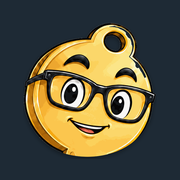
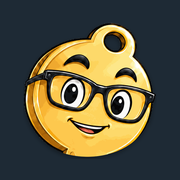
Týpek: oprava škvrny vpravo hore na tmavom pozadí (ikony aj predajný web)
Biely odlesok na hlavičke kľúča bol v pôvodnom obrázku priehľadný, takže na tmavom
pozadí presvital ako špinavý tieň. Odlesk je vyplnený bielou, odstránený aj svetlý
bodkovaný lem okolo obrysu a krúžku. Nové verzie súborov (?v=) obídu staré uložené kópie.

Claude-Session: https://claude.ai/code/session_01MJ5tMCrix1cnsHfavNYhMH

Changed region(s): [[0.6111, 0.1389, 0.8333, 0.4444]]

diff --git a/docs/web/index.html b/docs/web/index.html
@@ -7,7 +7,7 @@
 <meta name="theme-color" content="#1e2a35">
 <title>Realitný týpek – softvér od makléra pre maklérov</title>
 <meta name="description" content="Realitný týpek: skener inzercie, kataster, kalendár, ponuky a osobný web v jednom okne. Softvér od makléra pre maklérov. 30 dní zadarmo.">
-<link rel="icon" type="image/png" href="typek-head.png">
+<link rel="icon" type="image/png" href="typek-head.png?v=202610251300">
 <meta property="og:type" content="website">
 <meta property="og:site_name" content="Realitný týpek">
 <meta property="og:locale" content="sk_SK">
@@ -407,7 +407,7 @@ a{color:#4A6074}a:hover{color:#1E2A35}
 <header id="top" class="hdr">
 <nav aria-label="Hlavné menu" style="max-width: 1200px; margin: 0 auto; padding: 22px 24px; display: flex; flex-wrap: wrap; align-items: center; justify-content: space-between; gap: 16px">
 <a href="#top" style="display: flex; align-items: center; gap: 12px; text-decoration: none; color: #1E2A35">
-<img src="typek-head.png" alt="" width="50" height="50" style="display: block; flex: none; width: 50px; height: 50px">
+<img src="typek-head.png?v=202610251300" alt="" width="50" height="50" style="display: block; flex: none; width: 50px; height: 50px">
 <span class="wm" style="font-size: 24px"><span class="wm-a">Realitný</span> <span class="wm-b">týpek</span></span>
 </a>
 <div class="nav-d" style="display: flex; flex-wrap: wrap; align-items: center; gap: 22px">
@@ -463,7 +463,7 @@ softvér od makléra pre maklérov
 <svg viewBox="0 0 400 120" width="100%" aria-hidden="true" style="position: absolute; left: 0; right: 0; bottom: 0; opacity: 0.35"><path d="M0 120 V80 L40 50 L80 80 V60 L120 30 L160 60 V90 L200 62 L240 90 V50 L290 14 L340 50 V84 L370 60 L400 84 V120 Z" fill="#1E2A35"></path></svg>
 </div>
 <div class="mwrap" style="position: absolute; left: 4%; right: 20%; bottom: 3%">
-<img class="mfloat" src="typek.png" alt="Maskot Realitný týpek – zlatý kľúč s okuliarmi, ktorý drží domček a ukazuje rukou" style="display: block; width: 100%; height: auto; filter: drop-shadow(0 24px 30px rgba(0,0,0,.35))">
+<img class="mfloat" src="typek.png?v=202610251300" alt="Maskot Realitný týpek – zlatý kľúč s okuliarmi, ktorý drží domček a ukazuje rukou" style="display: block; width: 100%; height: auto; filter: drop-shadow(0 24px 30px rgba(0,0,0,.35))">
 </div>
 
 <div class="bob4 hide-sm" style="position: absolute; top: 2%; right: -4%; max-width: 190px; padding: 14px 18px; border-radius: 20px 20px 20px 6px; background: #FFFDF8; box-shadow: 0 18px 40px -22px rgba(30,42,53,.55); font-size: 15px; line-height: 1.4; font-weight: 600">Čau, ja som Týpek. Všetko máš u mňa – na jednom mieste.</div>
@@ -639,7 +639,7 @@ List vlastníctva na 1 klik
 
 <!-- PÁS TEXTU – ide do strán podľa skrolovania -->
 <div class="pas" aria-hidden="true">
-<div class="pas-r pas-r1"><div class="pas-t"><span>Realitný skener</span><img src="typek-head.png" alt="" width="80" height="80"><span>Kataster a mapa</span><img src="typek-head.png" alt="" width="80" height="80"><span>Kalendár</span><img src="typek-head.png" alt="" width="80" height="80"><span>Správa ponúk</span><img src="typek-head.png" alt="" width="80" height="80"><span>Osobný web</span><img src="typek-head.png" alt="" width="80" height="80"><span>Emailing</span><img src="typek-head.png" alt="" width="80" height="80"><span>Chat s kolegami</span><img src="typek-head.png" alt="" width="80" height="80"><span>Dokumenty na tlač</span><img src="typek-head.png" alt="" width="80" height="80"></div><div class="pas-t"><span>Realitný skener</span><img src="typek-head.png" alt="" width="80" height="80"><span>Kataster a mapa</span><img src="typek-head.png" alt="" width="80" height="80"><span>Kalendár</span><img src="typek-head.png" alt="" width="80" height="80"><span>Správa ponúk</span><img src="typek-head.png" alt="" width="80" height="80"><span>Osobný web</span><img src="typek-head.png" alt="" width="80" height="80"><span>Emailing</span><img src="typek-head.png" alt="" width="80" height="80"><span>Chat s kolegami</span><img src="typek-head.png" alt="" width="80" height="80"><span>Dokumenty na tlač</span><img src="typek-head.png" alt="" width="80" height="80"></div></div>
+<div class="pas-r pas-r1"><div class="pas-t"><span>Realitný skener</span><img src="typek-head.png?v=202610251300" alt="" width="80" height="80"><span>Kataster a mapa</span><img src="typek-head.png?v=202610251300" alt="" width="80" height="80"><span>Kalendár</span><img src="typek-head.png?v=202610251300" alt="" width="80" height="80"><span>Správa ponúk</span><img src="typek-head.png?v=202610251300" alt="" width="80" height="80"><span>Osobný web</span><img src="typek-head.png?v=202610251300" alt="" width="80" height="80"><span>Emailing</span><img src="typek-head.png?v=202610251300" alt="" width="80" height="80"><span>Chat s kolegami</span><img src="typek-head.png?v=202610251300" alt="" width="80" height="80"><span>Dokumenty na tlač</span><img src="typek-head.png?v=202610251300" alt="" width="80" height="80"></div><div class="pas-t"><span>Realitný skener</span><img src="typek-head.png?v=202610251300" alt="" width="80" height="80"><span>Kataster a mapa</span><img src="typek-head.png?v=202610251300" alt="" width="80" height="80"><span>Kalendár</span><img src="typek-head.png?v=202610251300" alt="" width="80" height="80"><span>Správa ponúk</span><img src="typek-head.png?v=202610251300" alt="" width="80" height="80"><span>Osobný web</span><img src="typek-head.png?v=202610251300" alt="" width="80" height="80"><span>Emailing</span><img src="typek-head.png?v=202610251300" alt="" width="80" height="80"><span>Chat s kolegami</span><img src="typek-head.png?v=202610251300" alt="" width="80" height="80"><span>Dokumenty na tlač</span><img src="typek-head.png?v=202610251300" alt="" width="80" height="80"></div></div>
 <div class="pas-r pas-r2"><div class="pas-t"><span>Dokumenty na tlač</span><i></i><span>Chat s kolegami</span><i></i><span>Emailing</span><i></i><span>Osobný web</span><i></i><span>Správa ponúk</span><i></i><span>Kalendár</span><i></i><span>Kataster a mapa</span><i></i><span>Realitný skener</span><i></i></div><div class="pas-t"><span>Dokumenty na tlač</span><i></i><span>Chat s kolegami</span><i></i><span>Emailing</span><i></i><span>Osobný web</span><i></i><span>Správa ponúk</span><i></i><span>Kalendár</span><i></i><span>Kataster a mapa</span><i></i><span>Realitný skener</span><i></i></div></div>
 </div>
 
@@ -784,7 +784,7 @@ List vlastníctva na 1 klik
 <div style="flex: 1 1 440px; min-width: 0; position: relative">
 <div style="border-radius: 22px; background: #FFFDF8; overflow: hidden; box-shadow: 0 50px 80px -40px rgba(30,42,53,.55)">
 <div style="display: flex; align-items: center; gap: 10px; padding: 12px 16px; background: #1E2A35; color: #F7F2E8">
-<img src="typek-head.png" alt="" width="34" height="34" style="display: block; width: 34px; height: 34px">
+<img src="typek-head.png?v=202610251300" alt="" width="34" height="34" style="display: block; width: 34px; height: 34px">
 <span class="wm" style="flex: 1; min-width: 0; font-size: 16px"><span style="color: #F7F2E8">Realitný</span> <span style="color: #DB9522">týpek</span></span>
 <span style="display: inline-flex; align-items: center; gap: 6px; padding: 5px 10px; border-radius: 999px; background: #DB9522; color: #1E2A35; font-size: 12px; font-weight: 800"><svg width="14" height="14" viewBox="0 0 24 24" fill="none" stroke="currentColor" stroke-width="2.2" stroke-linecap="round" stroke-linejoin="round" aria-hidden="true"><circle cx="7.5" cy="12" r="4"></circle><path d="M11.5 12H21M18 12v3.5M21 12v2.5"></path></svg>1 prihlásenie</span>
 </div>
@@ -819,7 +819,7 @@ List vlastníctva na 1 klik
 <div aria-hidden="true" style="position: absolute; top: 26px; left: 50%; width: 82%; max-width: 380px; height: 88%; transform: translateX(-46%) rotate(4deg); border-radius: 22px; background: #EADBB8"></div>
 <div style="position: relative; width: 100%; max-width: 400px; border-radius: 22px; background: #FFFDF8; overflow: hidden; box-shadow: 0 50px 80px -40px rgba(30,42,53,.55)">
 <div style="padding: 18px 20px; background: #1E2A35; color: #F7F2E8; display: flex; align-items: center; gap: 12px">
-<img src="typek-head.png" alt="" width="44" height="44" style="display: block; width: 44px; height: 44px">
+<img src="typek-head.png?v=202610251300" alt="" width="44" height="44" style="display: block; width: 44px; height: 44px">
 <span style="flex: 1; min-width: 0"><span class="disp" style="display: block; font-size: 18px; font-weight: 800">Realitné novinky</span><span style="font-size: 12px; color: #C9D4DD">od [Tvoje meno] · október</span></span>
 </div>
 <div style="padding: 16px 20px; display: flex; flex-direction: column; gap: 12px">
@@ -1081,7 +1081,7 @@ List vlastníctva na 1 klik
 <div style="position: relative; width: 100%; max-width: 380px">
 <div class="pop" style="border-radius: 24px; background: #FFFDF8; color: #1E2A35; overflow: hidden; box-shadow: 0 50px 80px -40px rgba(0,0,0,.8)">
 <div style="display: flex; align-items: center; gap: 10px; padding: 14px 16px">
-<img src="typek-head.png" alt="" width="40" height="40" style="display: block; width: 40px; height: 40px; border-radius: 99px; background: #EEE6D6">
+<img src="typek-head.png?v=202610251300" alt="" width="40" height="40" style="display: block; width: 40px; height: 40px; border-radius: 99px; background: #EEE6D6">
 <span style="flex: 1; min-width: 0"><strong style="display: block; font-size: 14px">[Tvoje meno] · maklér</strong><span style="font-size: 12px; color: #4A6074">práve teraz</span></span>
 <svg width="20" height="20" viewBox="0 0 24 24" fill="#4A6074" aria-hidden="true"><circle cx="5" cy="12" r="1.8"></circle><circle cx="12" cy="12" r="1.8"></circle><circle cx="19" cy="12" r="1.8"></circle></svg>
 </div>
@@ -1180,7 +1180,7 @@ List vlastníctva na 1 klik
 </svg>
 <div class="hub-core">
 <span class="hub-ring" aria-hidden="true"></span>
-<img src="typek-head.png" alt="" width="96" height="96" style="display: block; width: 96px; height: 96px; position: relative">
+<img src="typek-head.png?v=202610251300" alt="" width="96" height="96" style="display: block; width: 96px; height: 96px; position: relative">
 <span class="wm" style="position: relative; font-size: 17px"><span style="color: #F7F2E8">Realitný</span> <span style="color: #DB9522">týpek</span></span>
 </div>
 <div class="hub-node hn0 hub-node--gold"><span class="ic"><svg width="18" height="18" viewBox="0 0 24 24" fill="none" stroke="currentColor" stroke-width="2" stroke-linecap="round" stroke-linejoin="round" aria-hidden="true"><circle cx="12" cy="12" r="9"></circle><circle cx="12" cy="12" r="4"></circle><path d="M12 12 L18 6"></path></svg></span>Realitný skener</div>
@@ -1240,7 +1240,7 @@ List vlastníctva na 1 klik
 
 <aside id="suhrn" class="sum" style="scroll-margin-top: 16px">
 <div style="display: flex; align-items: center; gap: 12px">
-<img src="typek-head.png" alt="" width="56" height="56" style="display: block; width: 56px; height: 56px">
+<img src="typek-head.png?v=202610251300" alt="" width="56" height="56" style="display: block; width: 56px; height: 56px">
 <span><span class="wm" style="display: block; font-size: 20px"><span style="color: #F7F2E8">Tvoj</span> <span style="color: #DB9522">Týpek</span></span><span style="font-size: 14px; color: #C9D4DD">Vybraté moduly: <strong style="color: #F7F2E8" data-mod-count="1">1</strong> z 11</span></span>
 </div>
 <div style="display: flex; flex-wrap: wrap; gap: 8px; min-height: 40px">
@@ -1317,7 +1317,7 @@ List vlastníctva na 1 klik
 <div style="flex: 1 1 320px; min-width: 0; display: flex; justify-content: center">
 <div class="team" style="position: relative; width: 100%; max-width: 360px; aspect-ratio: 1 / 1">
 <div style="position: absolute; inset: 12%; border-radius: 999px; background: #2F4152"></div>
-<img class="mfloat" src="typek.png" alt="Maskot Týpek s tímom maklérov" style="position: absolute; left: 22%; right: 22%; bottom: 10%; width: 56%; height: auto">
+<img class="mfloat" src="typek.png?v=202610251300" alt="Maskot Týpek s tímom maklérov" style="position: absolute; left: 22%; right: 22%; bottom: 10%; width: 56%; height: auto">
 <span class="team-av bob1" style="top: 6%; left: 4%; background: #4A6074; color: #F7F2E8">MA</span>
 <span class="team-av bob2" style="top: 2%; right: 8%; background: #DB9522; color: #1E2A35">JK</span>
 <span class="team-av bob3" style="top: 46%; left: -2%; background: #F7F2E8; color: #1E2A35">PS</span>
@@ -1373,7 +1373,7 @@ List vlastníctva na 1 klik
 <p id="rt-note" style="margin: 14px 0 0; font-size: 14px; line-height: 1.55; color: #4A6074">Žiadny spam. 30 dní zadarmo, potom sa rozhodneš. S nami sa dohodneš na všetkom. Tvoj e-mail použijeme len na to, aby sme sa ti ozvali – viac v <a href="ochrana-udajov.html">Ochrane osobných údajov</a>.</p>
 </div>
 <div style="flex: 0 1 300px; min-width: 220px; margin: 0 auto">
-<img class="mfloat" src="typek.png" alt="Maskot Realitný týpek" style="display: block; width: 100%; height: auto; filter: drop-shadow(0 18px 22px rgba(30,42,53,.25))">
+<img class="mfloat" src="typek.png?v=202610251300" alt="Maskot Realitný týpek" style="display: block; width: 100%; height: auto; filter: drop-shadow(0 18px 22px rgba(30,42,53,.25))">
 </div>
 </div>
 </section>
@@ -1395,7 +1395,7 @@ List vlastníctva na 1 klik
 <!-- FOOTER -->
 <footer style="max-width: 1200px; margin: 0 auto; padding: 10px 24px 48px; display: flex; flex-wrap: wrap; align-items: center; justify-content: space-between; gap: 18px; font-size: 14px; color: #4A6074">
 <div style="display: flex; align-items: center; gap: 12px">
-<img src="typek-head.png" alt="" width="40" height="40" style="display: block; flex: none; width: 40px; height: 40px">
+<img src="typek-head.png?v=202610251300" alt="" width="40" height="40" style="display: block; flex: none; width: 40px; height: 40px">
 <span><span class="wm" style="font-size: 15px"><span class="wm-a">Realitný</span> <span class="wm-b">týpek</span></span> – softvér od realitnej kancelárie <a href="https://www.alphareality.sk/">Alpha Reality</a></span>
 </div>
 <div style="display: flex; flex-wrap: wrap; gap: 20px">
@@ -1413,7 +1413,7 @@ List vlastníctva na 1 klik
 <div data-ck="banner" style="display: contents" hidden>
 <div class="ck" role="dialog" aria-labelledby="ck-t" aria-describedby="ck-d">
 <div style="display: flex; align-items: flex-start; gap: 14px">
-<img src="typek-head.png" alt="" width="44" height="44" style="display: block; flex: none; width: 44px; height: 44px">
+<img src="typek-head.png?v=202610251300" alt="" width="44" height="44" style="display: block; flex: none; width: 44px; height: 44px">
 <div style="min-width: 0">
 <h2 id="ck-t" style="margin: 0; font-size: 20px; line-height: 1.2; letter-spacing: -0.02em; font-weight: 800">Pár slov o cookies</h2>
 <p id="ck-d" style="margin: 6px 0 0; font-size: 14.5px; line-height: 1.55; color: #3A4B5A">Nevyhnutné súbory cookies potrebujeme, aby web fungoval. Analytické a marketingové použijeme len vtedy, keď s nimi súhlasíš. Výber môžeš kedykoľvek zmeniť v pätičke stránky. Viac v <a href="ochrana-udajov.html">Ochrane osobných údajov</a>.</p>

diff --git a/docs/app.js b/docs/app.js
@@ -535,7 +535,7 @@
         var j = s.toJSON();
         await rpc("ulozit_push_odber", { p_endpoint: j.endpoint, p_p256dh: j.keys.p256dh, p_auth: j.keys.auth,
           p_zariadenie: (jeIos() ? "iPhone" : /android/i.test(navigator.userAgent) ? "Android" : "Počítač") + (naPloche() ? " (aplikácia)" : "") });
-        rg.showNotification("🔔 Upozornenia sú zapnuté", { body: "Takto vám príde správa o novom súkromnom inzeráte.", icon: "typek-ikona-192.png", badge: "typek-odznak-96.png", tag: "push-test" });
+        rg.showNotification("🔔 Upozornenia sú zapnuté", { body: "Takto vám príde správa o novom súkromnom inzeráte.", icon: "typek-ikona-192.png?v=202610251300", badge: "typek-odznak-96.png?v=202610251300", tag: "push-test" });
         toast("🔔 Upozornenia sú zapnuté.");
       } catch (err) { toast(chybaText(err), true); }
       napojUpozornenia();
@@ -6833,7 +6833,7 @@
   function systemoveUpozornenie(titul, text, tag, adresa) {
     if (!document.hidden || !("Notification" in window) || Notification.permission !== "granted" || !navigator.serviceWorker) return;
     navigator.serviceWorker.ready.then(function (reg) {
-      reg.showNotification(titul, { body: String(text || "").slice(0, 180), icon: "typek-ikona-192.png", badge: "typek-odznak-96.png", tag: tag, renotify: true,
+      reg.showNotification(titul, { body: String(text || "").slice(0, 180), icon: "typek-ikona-192.png?v=202610251300", badge: "typek-odznak-96.png?v=202610251300", tag: tag, renotify: true,
         data: { url: location.href.split("#")[0] + "#" + adresa } });
     }).catch(function () {});
   }

diff --git a/docs/index.html b/docs/index.html
@@ -10,9 +10,9 @@
 <link rel="stylesheet" href="https://fonts.googleapis.com/css2?family=Montserrat:wght@600;700;800&family=Public+Sans:wght@400;500;600;700&family=Bricolage+Grotesque:opsz,wght@12..96,600..800&family=Instrument+Sans:wght@400..700&display=swap">
 <link rel="stylesheet" href="styles.css?v=202610251300">
 <link rel="stylesheet" href="media.css?v=202610201600">
-<link rel="icon" type="image/png" sizes="32x32" href="typek-favicon-32.png">
-<link rel="icon" type="image/png" sizes="192x192" href="typek-ikona-192.png">
-<link rel="apple-touch-icon" href="typek-apple-ikona.png">
+<link rel="icon" type="image/png" sizes="32x32" href="typek-favicon-32.png?v=202610251300">
+<link rel="icon" type="image/png" sizes="192x192" href="typek-ikona-192.png?v=202610251300">
+<link rel="apple-touch-icon" href="typek-apple-ikona.png?v=202610251300">
 <link rel="manifest" href="manifest.webmanifest">
 <meta name="apple-mobile-web-app-capable" content="yes">
 <meta name="mobile-web-app-capable" content="yes">
@@ -30,6 +30,6 @@
 <script src="meniny.js?v=202610201100"></script>
 <script src="media.js?v=202610232300"></script>
 <script src="odpoved.js?v=202610241300"></script>
-<script src="app.js?v=202610251300"></script>
+<script src="app.js?v=202610251305"></script>
 </body>
 </html>

diff --git a/docs/web/ochrana-udajov.html b/docs/web/ochrana-udajov.html
@@ -39,7 +39,7 @@ a{color:#4A6074}a:hover{color:#1E2A35}
 <header>
 <nav aria-label="Hlavné menu" style="max-width: 1200px; margin: 0 auto; padding: 22px 24px; display: flex; flex-wrap: wrap; align-items: center; justify-content: space-between; gap: 16px">
 <a href="./" style="display: flex; align-items: center; gap: 12px; text-decoration: none">
-<img src="typek-head.png" alt="" width="50" height="50" style="display: block; flex: none; width: 50px; height: 50px">
+<img src="typek-head.png?v=202610251300" alt="" width="50" height="50" style="display: block; flex: none; width: 50px; height: 50px">
 <span class="wm" style="font-size: 24px"><span class="wm-a">Realitný</span> <span class="wm-b">týpek</span></span>
 </a>
 <a class="btn btn-ghost" href="./"><svg width="18" height="18" viewBox="0 0 24 24" fill="none" stroke="currentColor" stroke-width="2.2" stroke-linecap="round" stroke-linejoin="round" aria-hidden="true"><path d="M19 12H5M11 18l-6-6 6-6"></path></svg>Späť na úvod</a>

diff --git a/docs/web-editor.html b/docs/web-editor.html
@@ -12,7 +12,7 @@
 <link rel="stylesheet" href="https://fonts.googleapis.com/css2?family=Bricolage+Grotesque:opsz,wght@12..96,500..800&family=Instrument+Sans:wght@400..700&family=Young+Serif&family=Public+Sans:wght@400..800&family=Archivo:wght@400..900&family=Cormorant+Garamond:wght@500;600;700&family=Nunito:wght@500..800&family=Montserrat:wght@900&display=swap">
 <link rel="stylesheet" href="web-sablony.css?v=202610250010">
 <link rel="stylesheet" href="web-editor.css?v=202610242300">
-<link rel="icon" type="image/png" sizes="32x32" href="typek-favicon-32.png">
+<link rel="icon" type="image/png" sizes="32x32" href="typek-favicon-32.png?v=202610251300">
 <script>try { var t = localStorage.getItem("alpha-skener-tema"); if (t) document.documentElement.dataset.theme = t; } catch (e) {}</script>
 </head>
 <body>

diff --git a/docs/sprava.html b/docs/sprava.html
@@ -10,8 +10,8 @@
 <link rel="stylesheet" href="https://fonts.googleapis.com/css2?family=Montserrat:wght@600;700;800;900&family=Public+Sans:wght@400;500;600;700&display=swap">
 <link rel="stylesheet" href="styles.css?v=202610221500">
 <link rel="stylesheet" href="sprava.css?v=202610221500">
-<link rel="icon" type="image/png" sizes="32x32" href="typek-favicon-32.png">
-<link rel="apple-touch-icon" href="typek-apple-ikona.png">
+<link rel="icon" type="image/png" sizes="32x32" href="typek-favicon-32.png?v=202610251300">
+<link rel="apple-touch-icon" href="typek-apple-ikona.png?v=202610251300">
 <script>try { var t = localStorage.getItem("alpha-skener-tema"); if (t) document.documentElement.dataset.theme = t; } catch (e) {}</script>
 </head>
 <body class="sz-stranka">

diff --git a/docs/sw.js b/docs/sw.js
@@ -19,7 +19,7 @@ self.addEventListener("push", function (e) {
   var d = {};
   try { d = e.data ? e.data.json() : {}; } catch (x) { d = { title: "Realitný týpek", body: e.data ? e.data.text() : "" }; }
   e.waitUntil(self.registration.showNotification(d.title || "Realitný týpek", {
-    body: d.body || "", icon: "typek-ikona-192.png", badge: "typek-odznak-96.png", tag: d.tag || undefined, renotify: !!d.tag,
+    body: d.body || "", icon: "typek-ikona-192.png?v=202610251300", badge: "typek-odznak-96.png?v=202610251300", tag: d.tag || undefined, renotify: !!d.tag,
     data: { url: d.url || "./#inzeraty" }
   }));
 });
